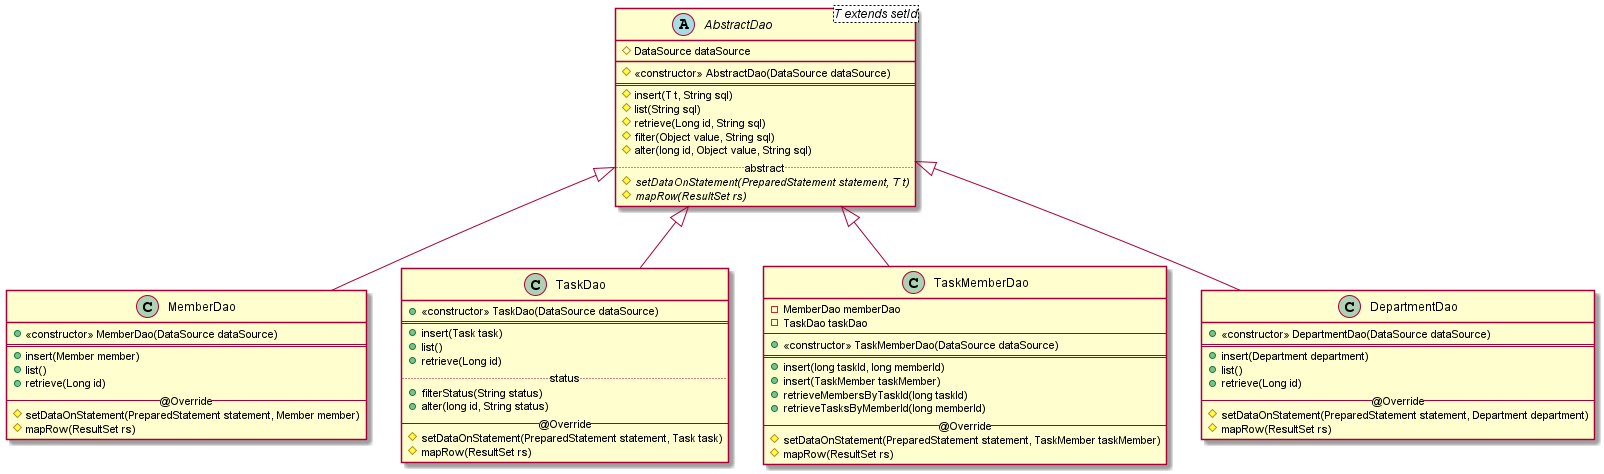
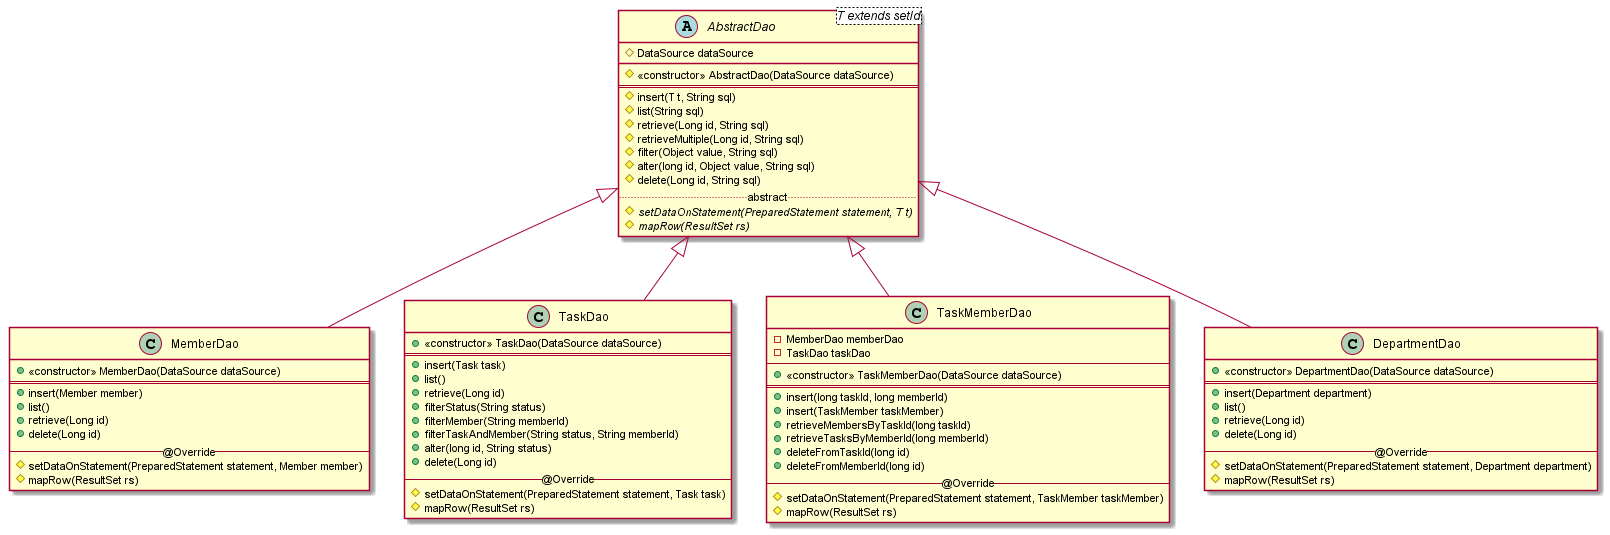
updated plantUML (#70)

diff --git a/src/main/java/no/kristiania/db/TaskDao.java b/src/main/java/no/kristiania/db/TaskDao.java
@@ -59,10 +59,22 @@ public class TaskDao extends AbstractDao <Task> {
         }else if(status.equals("*")){
             return filterMember(memberId);
         }
+        try(Connection connection = dataSource.getConnection()){
+            try(PreparedStatement statement = connection.prepareStatement(
+                    "select * from task where id in (select task_id from task_member where member_id = ?) and status = CAST(? AS task_status);"
+            )){
+                statement.setInt(1, Integer.parseInt(memberId));
+                statement.setString(2, status);
 
-        String sql = "select * from task where id in (select task_id from task_member where member_id = ?) and status = CAST(? AS task_status);";
-
-        return filterTaskAndMember(status, memberId, sql);
+                try(ResultSet rs = statement.executeQuery()){
+                    List <Task> taskList = new ArrayList <>();
+                    while(rs.next()){
+                        taskList.add(mapRow(rs));
+                    }
+                    return taskList;
+                }
+            }
+        }
     }
 
     public void alter(long id, String status) throws SQLException {
@@ -89,22 +101,5 @@ public class TaskDao extends AbstractDao <Task> {
                 rs.getString("description"),
                 rs.getString("status")
         );
-    }
-
-    protected List <Task> filterTaskAndMember(String status, String memberId, String sql) throws SQLException {
-        try(Connection connection = dataSource.getConnection()){
-            try(PreparedStatement statement = connection.prepareStatement(sql)){
-                statement.setInt(1, Integer.parseInt(memberId));
-                statement.setString(2, status);
-
-                try(ResultSet rs = statement.executeQuery()){
-                    List <Task> tList = new ArrayList <>();
-                    while(rs.next()){
-                        tList.add(mapRow(rs));
-                    }
-                    return tList;
-                }
-            }
-        }
     }
 }

diff --git a/src/main/java/no/kristiania/db/Task.java b/src/main/java/no/kristiania/db/Task.java
@@ -46,5 +46,4 @@ public class Task implements SetId {
     public String getDescription() {
         return description;
     }
-
 }
